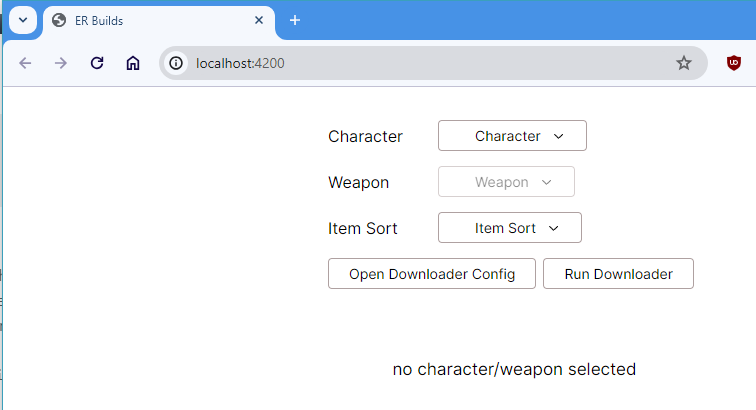
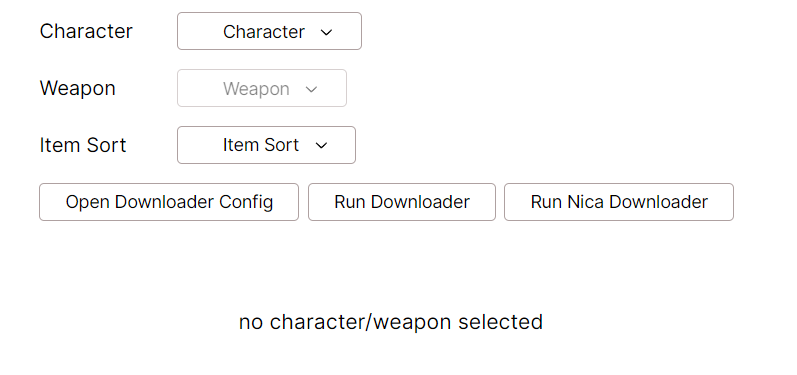
readmes update

diff --git a/readme.md b/readme.md
@@ -7,27 +7,40 @@ ER Builds is based on [dak.gg](https://dak.gg/er/characters), but instead of pre
 
 ![](./doc/img/1.png)
 
-ER Builds presents all the items per category, although it only supports Purple items (for now). This can be useful during build construction when you want to see more than just the top 5 items. Additionally, it presents more statistics than just Pick % and Average Rank.
+ER Builds presents all the items per category, including special other categories such as Augments and Late Game Items. This can be useful during build construction when you want to see more than just the top 5 items. Additionally, it presents more statistics than just Pick % and Average Rank.
 
 *(image of ER Builds tool)*
 
 ![](./doc/img/2.png)
 
+Augments and Late Game Items
+
+![](./doc/img/7.png)
+
 # Usage
 [Usage Guide](./doc/usage-guide.md)
 
 # Features
-- **Webpage display**: Collected information is displayed on a UI page similar to dak.gg.
+- **Webpage display**: Collected information is displayed on a UI page.
 - **Multiple Sort Options**: Item statistics can be sorted by various values.
     - Number of Builds and Build %
     - Number of Likes
+    - Build/Like ratio
     - Average and Highest Win Rate
 - **Offline Data Store**: ER Builds collects data from API and stores on disk, so accessing the API is not spammed. User can easily choose which characters they would like to retrieve data for, and can update on demand.
 
 # Possible Future Features
-- **Support for Yellow Items, Tac Skills, Augments**: Currently, the tool only collects information on Purple builds. It would be useful to know what the pick rates of Yellow Items, Tac Skills and Augments would be, but this requires additional collection of data.
+- **Tac Skills**: The tool could collect information about what tac skills are being selected in builds.
+- **Late Game Item Categories**: Late game items could be further split into their item types for easier comparison.
+- **Improved Data Collector Runners UI**: The config file to manage downloaded data isn't the best and could be improved.
 - **UI For Selecting Characters for Data Collection**: Right now this feature is configured through a file, but a UI can make this better.
 - **Item Stats Display**: The tool does not yet display the stats of an item on hovering over it like dak.gg.
+- **Update current character button**: It is common to want to know if the current character's info is up to date instead of always updating all characters.
+
+# Enhanced Build Info
+Collection of enhanced build information such as **Augments and Late Game Items** depends on [nicashow api](https://github.com/Eternal-Return-Community).
+
+The API is not accessed unless using the **Run Nica Downloader** option, in case you don't want to be accessing the third-party api.
 
 # Development Information
 [Development Notes](./doc/dev-notes.md)

diff --git a/doc/usage-guide.md b/doc/usage-guide.md
@@ -10,14 +10,36 @@ On the Web page, click "Open Downloads Configuration File". It will open the con
 
 Fill out (or uncomment) the characters/weapons you would like to be downloaded.
 
+Also make sure to update the "versions" list at the top. You can check [dak gg](https://dak.gg/er/characters) for the current version (look for the version dropdown at top right of any character).
+
 Click "Run Data Downloader" on web page to run data download. This will open a downloader window, press Enter when it is done.
 
 Reload page after it is done.
 
-img of the data download happening ![](./img/6.png)
+![](./img/6.png)
 
 Select the character and weapon in the dropdowns.
 
 ![](./img/5.png)
 
 You can also run the data-downloader.exe independently from the webpage.
+
+# Nica Downloader
+To see **Augments and Late Game Items**, the Nica Downloder can be used. This program uses the same config file as before.
+
+Press "Run Nica Downloader" to run. Similar to the Builds Downloader, it will download for all options in the config file.
+
+![](todo) img of download
+
+Reload the page and should now see Augments and Late Game Items.
+
+## Note: How to Overwrite Downloaded Nica Builds
+Currently, when downloading Nica Builds, the downloader **will not overwrite old builds** if it detects it already downloaded it. This is to save spamming Nica Api too much.
+
+This behaviour might be changed in the future, but for now, if you want to overwrite and refresh Nica Builds for a character, you will need to delete the Nica json data for that character.
+
+This can be found in the `data/nica` folder.
+
+![](./img/8.png)
+
+The Builds Downloader will always update with new data, so you don't need to delete those jsons unless you want to **purge builds from older versions**, as those will be kept in the data files.
